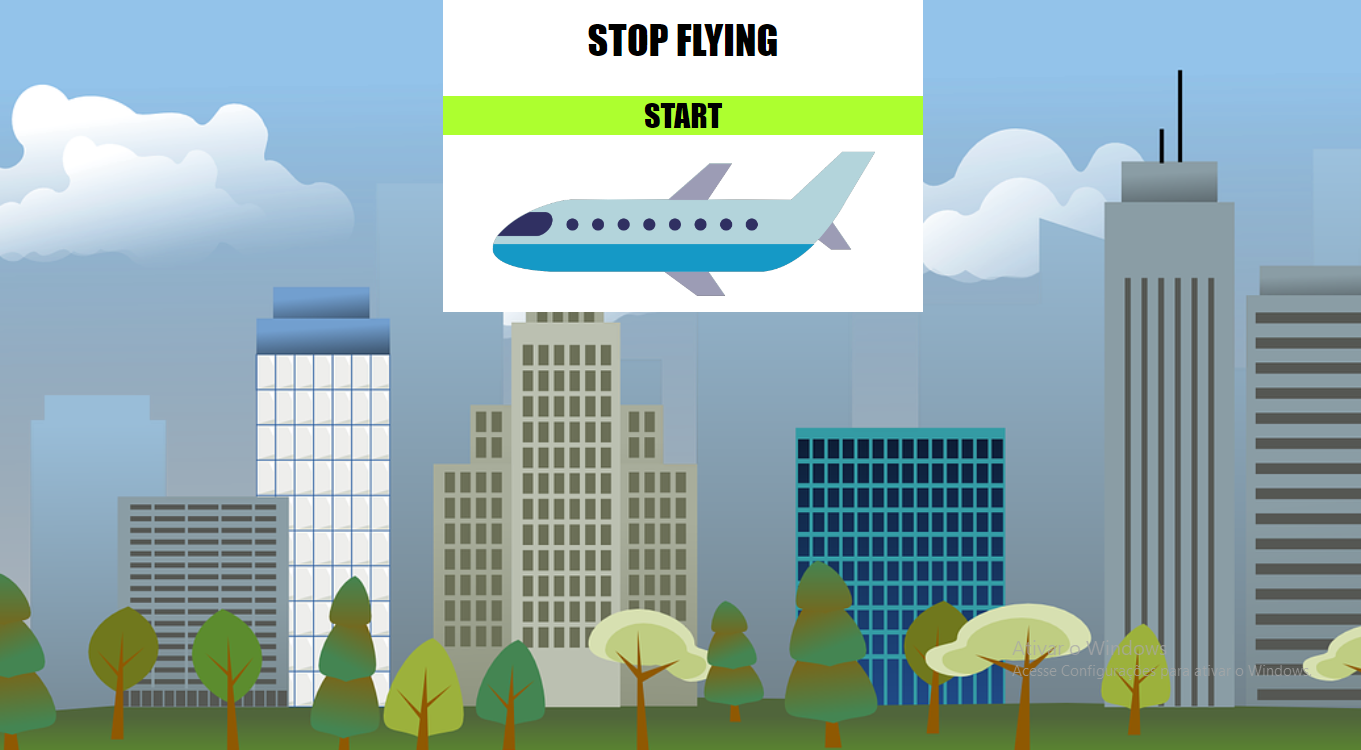
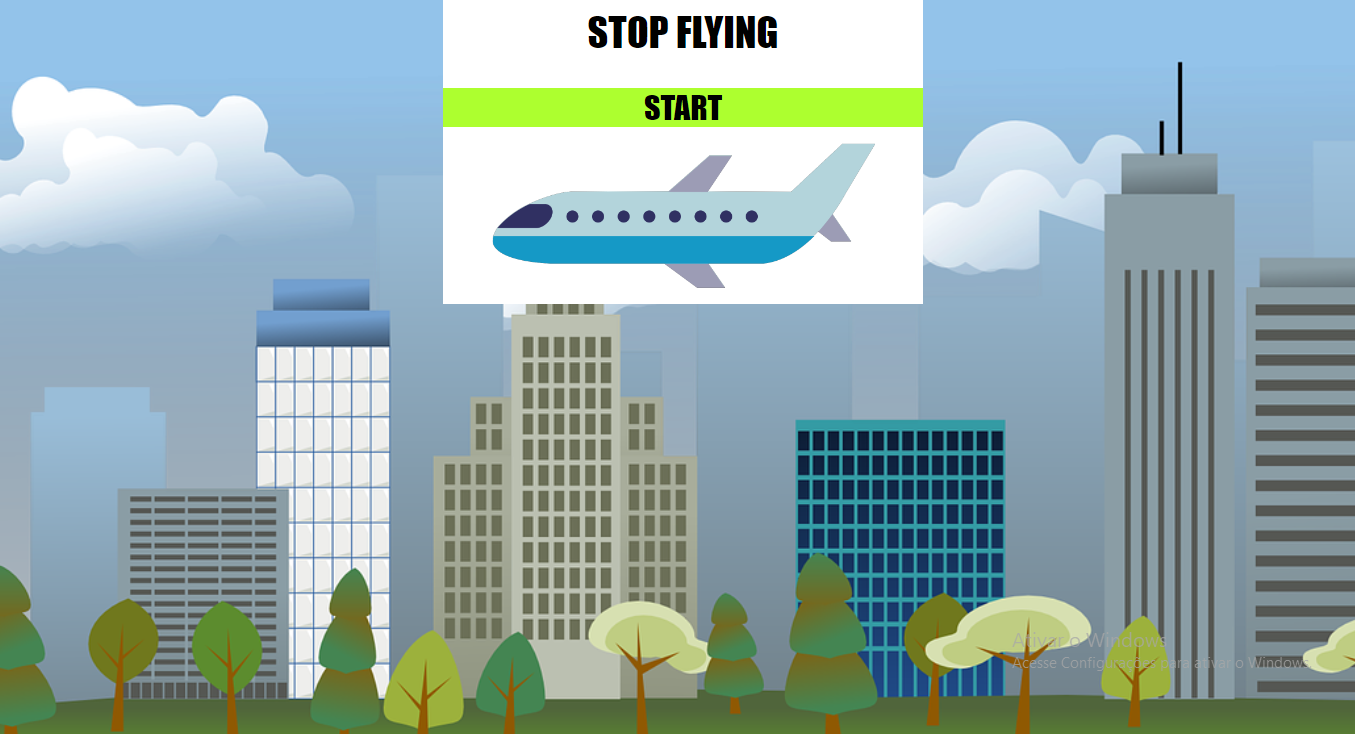
.

diff --git a/estilos/style.css b/estilos/style.css
@@ -147,10 +147,9 @@ aside img{
     height: 18rem;
     display: flex;
     flex-direction: column;
-    justify-content: space-between;
     border-radius:10px;
     background-color: var(--cor1);
-    border: 1px solid #0000002f;
+    border: 1px solid #00000028;
     box-shadow: 3px 3px 3px 2px #00000048;
     box-sizing: border-box;
    
@@ -168,7 +167,7 @@ aside img{
     background-color: white;
     border-radius:10px 10px 0 0 ;
 }
-.projetos a:hover{
+.projetos a.link:hover{
     background-color: green;
     color: white;
     cursor: pointer;
@@ -179,6 +178,7 @@ aside img{
     font-weight: bolder;
     background-color: white;
     text-align: center;
+   width: 100%;
     border-radius:10px 10px 0 0 ;
 }
 .projetos a img{

diff --git a/index.html b/index.html
@@ -44,8 +44,8 @@
                 <a href="https://leonardoemanuel.github.io/stopfly/" target="_blank"><img src="imagens/stopflying.png"></a>
             </div>
             <div class="projetos">
-                <a href="#" class="link">SITE DE ADVOCACIA</a>
-                <a href=""><img src="imagens/site-advocacia.png" ></a>
+                <a href="https://leonardoemanuel.github.io/siteadvogado/" target="_blank" class="link">SITE DE ADVOCACIA</a>
+                <a href="https://leonardoemanuel.github.io/siteadvogado/" target="_blank"><img src="imagens/site-advocacia.png" ></a>
             </div>
             <div class="projetos">
                 <h3>Em Breve</h3>

diff --git a/estilos/mobile.css b/estilos/mobile.css
@@ -139,7 +139,6 @@ aside img{
     height: 18rem;
     display: flex;
     flex-direction: column;
-    justify-content: space-between;
     border-radius:10px;
     background-color: var(--cor1);
     border: 1px solid #0000002f;
@@ -160,7 +159,7 @@ aside img{
     background-color: white;
     border-radius:10px 10px 0 0 ;
 }
-.projetos a:hover{
+.projetos a.link:hover{
     background-color: green;
     color: white;
     cursor: pointer;
